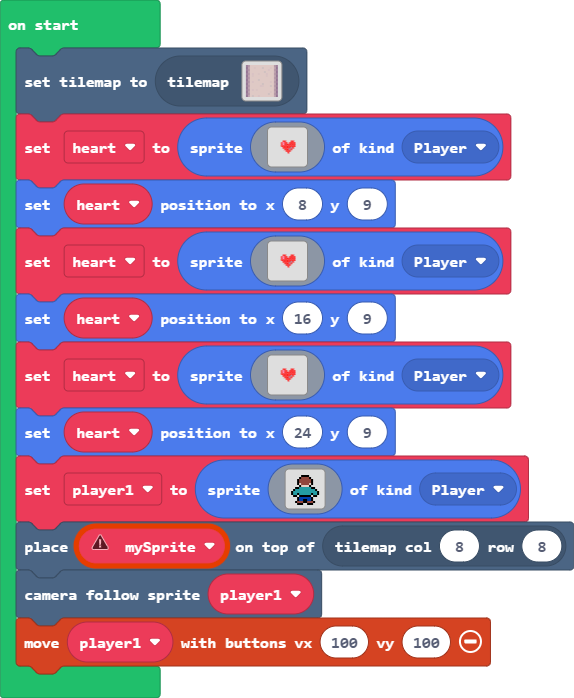
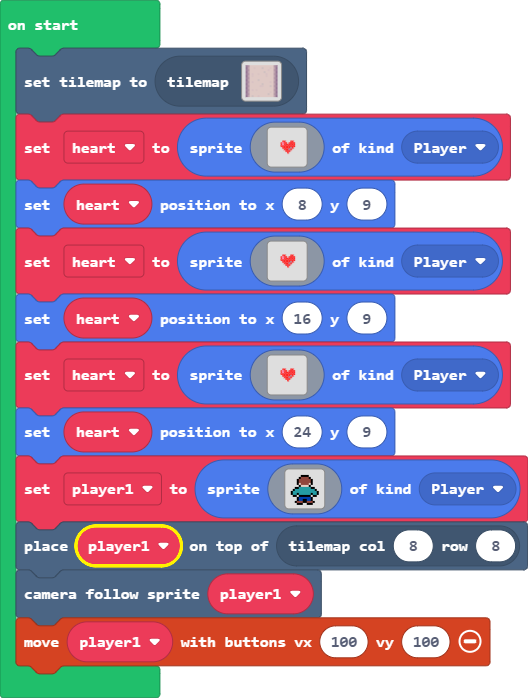
Update main.blocks, main.ts

Changed region(s): [[0.0, 0.0, 1.0, 1.0], [0.0, 0.0301, 0.1818, 0.1504]]

diff --git a/main.ts b/main.ts
@@ -1,4 +1,3 @@
-let mySprite: Sprite = null
 tiles.setCurrentTilemap(tilemap`level`)
 let heart = sprites.create(assets.image`heart`, SpriteKind.Player)
 heart.setPosition(8, 9)
@@ -7,6 +6,6 @@ heart.setPosition(16, 9)
 heart = sprites.create(assets.image`heart`, SpriteKind.Player)
 heart.setPosition(24, 9)
 let player1 = sprites.create(assets.image`myImage`, SpriteKind.Player)
-tiles.placeOnTile(mySprite, tiles.getTileLocation(8, 8))
+tiles.placeOnTile(player1, tiles.getTileLocation(8, 8))
 scene.cameraFollowSprite(player1)
 controller.moveSprite(player1, 100, 100)
